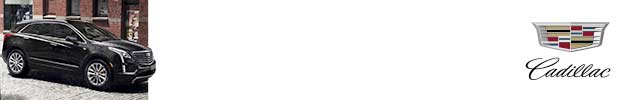
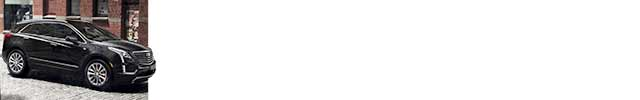
Updated 300x50 and 320x50

Changed region(s): [[0.8125, 0.21, 0.9688, 0.54], [0.8125, 0.57, 0.9688, 0.81]]

diff --git a/app/rich/templates/html/en/300x50.html b/app/rich/templates/html/en/300x50.html
@@ -2,6 +2,7 @@
     <img class="background1 item show" src="background1.jpg">
 </div>
 <!--     <img class="overlay" src="overlay.jpg"> -->
+<img class= "logo item show" src="logo.png">
 
 <div class="copy">
 <div class="copy-event show">

diff --git a/app/rich/templates/html/en/320x50.html b/app/rich/templates/html/en/320x50.html
@@ -2,6 +2,7 @@
     <img class="background1 item show" src="background1.jpg">
 </div>
 <!--     <img class="overlay" src="overlay.jpg"> -->
+<img class= "logo item show" src="logo.png">
 
 <div class="copy">
 <div class="copy-event show">

diff --git a/app/rich/templates/css/300x50.scss b/app/rich/templates/css/300x50.scss
@@ -25,6 +25,7 @@ html, body {
 
         .logo {
             width: {width}px;
+            z-index: 5;
         }
 
         .cta {

diff --git a/app/rich/templates/css/320x50.scss b/app/rich/templates/css/320x50.scss
@@ -25,6 +25,7 @@ html, body {
 
         .logo {
             width: {width}px;
+            z-index: 5;
         }
 
         .cta {
